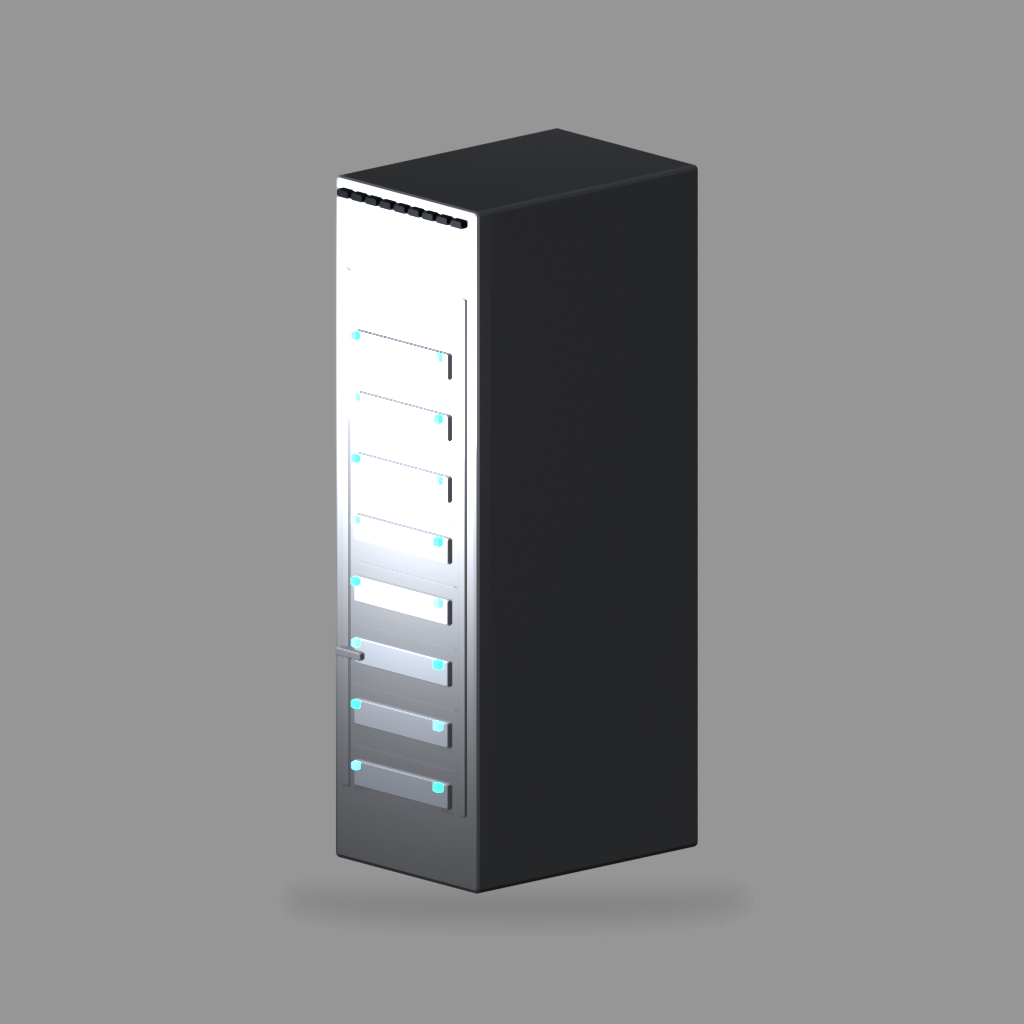
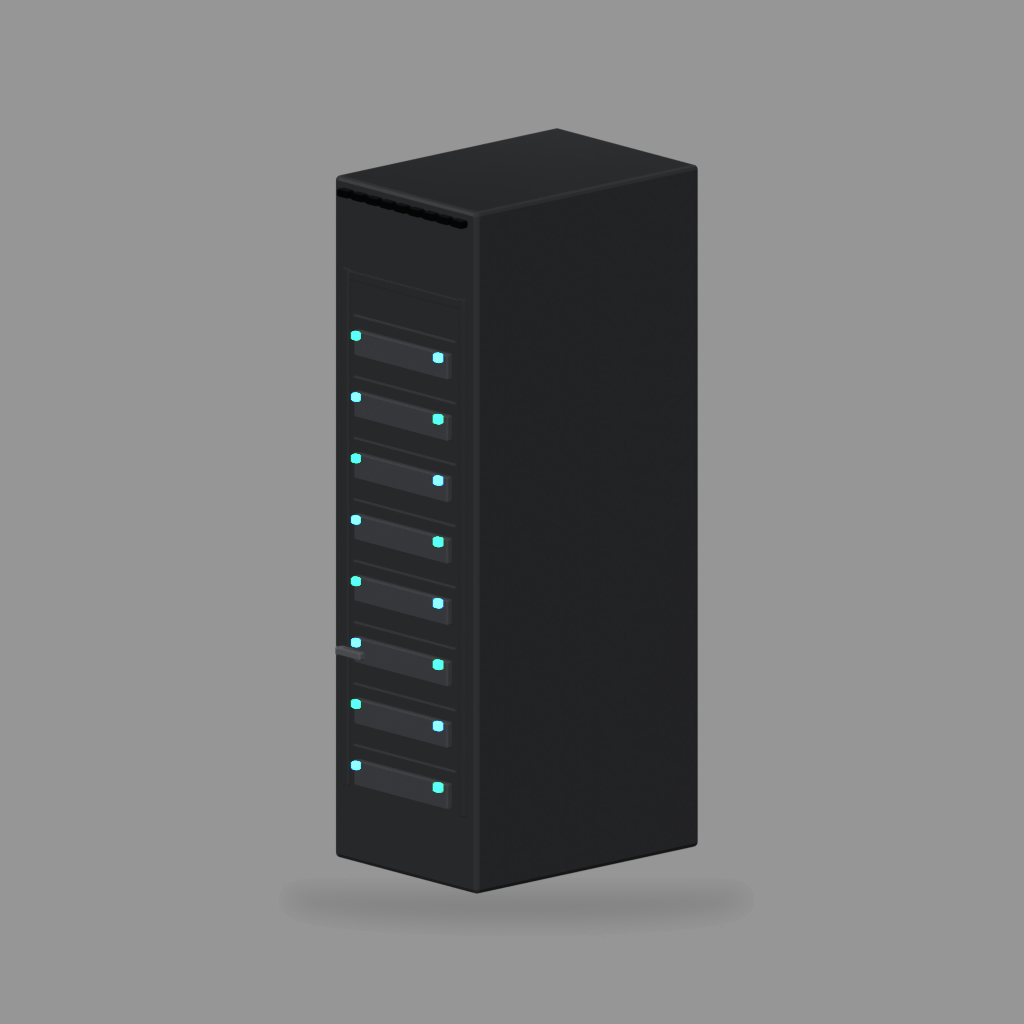
graphics: prop-server-rack v7 — gunmetal front, clip gate (FAIL #6)
Tame fridge wash: remove heavy front fill, gunmetal trim/face-plate albedos,
softer sun/fill, matte metals. LEDs keep cyan emission; exclude LED bloom from
rack_front_clip_frac gate.

Gates: rack_front_clip_frac (<0.5% >230), rack_front_panel_mean_lum (58–82 on
lum≥50 surfaces); 05ca3975 must-FAIL fixture. Pause for Hatch.

Changed region(s): [[0.3125, 0.1562, 0.4688, 0.875]]

diff --git a/tools/art/blender/_common.py b/tools/art/blender/_common.py
@@ -827,18 +827,27 @@ def _render_preview_from_glb(glb_path: Path, asset_id: str) -> Path:
                 if es is not None:
                     es.default_value = 6.5
             elif "glass" in low:
-                bsdf.inputs["Alpha"].default_value = 0.25
+                bsdf.inputs["Base Color"].default_value = (0.14, 0.17, 0.22, 1.0)
+                bsdf.inputs["Alpha"].default_value = 0.22
+                bsdf.inputs["Roughness"].default_value = 0.42
+                bsdf.inputs["Metallic"].default_value = 0.12
                 mat.blend_method = "BLEND"
                 mat.show_transparent_back = False
+            elif "face_plate" in low:
+                bsdf.inputs["Base Color"].default_value = (0.76, 0.78, 0.82, 1.0)
+                bsdf.inputs["Roughness"].default_value = 0.46
+                bsdf.inputs["Metallic"].default_value = 0.30
             elif "frame_trim" in low or "handle" in low or "jamb" in low:
-                bsdf.inputs["Base Color"].default_value = (0.80, 0.82, 0.86, 1.0)
-                bsdf.inputs["Roughness"].default_value = 0.26
+                bsdf.inputs["Base Color"].default_value = (0.66, 0.68, 0.71, 1.0)
+                bsdf.inputs["Roughness"].default_value = 0.50
+                bsdf.inputs["Metallic"].default_value = 0.30
             elif "body_dark" in low or "body" in low:
-                bsdf.inputs["Base Color"].default_value = (84 / 255.0, 86 / 255.0, 90 / 255.0, 1.0)
+                bsdf.inputs["Base Color"].default_value = (86 / 255.0, 88 / 255.0, 92 / 255.0, 1.0)
                 bsdf.inputs["Metallic"].default_value = 0.42
-            elif "bay" in low or "face_plate" in low:
-                bsdf.inputs["Base Color"].default_value = (0.68, 0.71, 0.76, 1.0)
-                bsdf.inputs["Roughness"].default_value = 0.26
+            elif "bay" in low:
+                bsdf.inputs["Base Color"].default_value = (0.58, 0.60, 0.64, 1.0)
+                bsdf.inputs["Roughness"].default_value = 0.40
+                bsdf.inputs["Metallic"].default_value = 0.40
             elif "slot" in low:
                 bsdf.inputs["Base Color"].default_value = (0.02, 0.022, 0.028, 1.0)
                 bsdf.inputs["Roughness"].default_value = 0.65
@@ -861,24 +870,15 @@ def _render_preview_from_glb(glb_path: Path, asset_id: str) -> Path:
     bpy.ops.object.light_add(type="SUN", location=center + Vector((span * 2, -span * 2, span * 3)))
     key = bpy.context.active_object
     rack_lit = asset_id == "prop-server-rack"
-    key.data.energy = 3.05 if rack_lit else (2.86 if presentation_150 else 1.8)
+    key.data.energy = 2.62 if rack_lit else (2.86 if presentation_150 else 1.8)
     key.rotation_euler = (math.radians(52), 0, math.radians(35))
 
     bpy.ops.object.light_add(type="AREA", location=center + Vector((-span, span * 1.2, span * 1.5)))
     fill = bpy.context.active_object
-    fill.data.energy = 72 if rack_lit else (84 if presentation_150 else 55)
+    fill.data.energy = 70 if rack_lit else (84 if presentation_150 else 55)
     fill.data.size = span * (0.9 if presentation_150 else 1.4)
     obj_h = max(maxs.z - mins.z, maxs.y - mins.y, 0.01)
     obj_w = max(maxs.x - mins.x, maxs.y - mins.y, 0.01)
-    if rack_lit:
-        bpy.ops.object.light_add(
-            type="AREA",
-            location=center + Vector((0.0, -obj_w * 1.45, obj_h * 0.28)),
-        )
-        front_fill = bpy.context.active_object
-        front_fill.data.energy = 52
-        front_fill.data.size = obj_w * 1.05
-        front_fill.rotation_euler = (math.radians(82), 0.0, 0.0)
     if asset_id == "prop-server-rack":
         target_fill = 0.70
         pad = 1.02
@@ -1187,9 +1187,9 @@ def _prop_rack_shared_material(kind: str, tex_dir: Path) -> bpy.types.Material:
             links.new(mapping.outputs["Vector"], rt.inputs["Vector"])
             links.new(rt.outputs["Color"], bsdf.inputs["Roughness"])
     elif kind == "frame_trim":
-        bsdf.inputs["Base Color"].default_value = (0.78, 0.80, 0.84, 1.0)
-        bsdf.inputs["Roughness"].default_value = 0.28
-        bsdf.inputs["Metallic"].default_value = 0.72
+        bsdf.inputs["Base Color"].default_value = (0.58, 0.60, 0.63, 1.0)
+        bsdf.inputs["Roughness"].default_value = 0.32
+        bsdf.inputs["Metallic"].default_value = 0.62
     elif kind == "glass":
         bsdf.inputs["Base Color"].default_value = (0.18, 0.22, 0.28, 1.0)
         bsdf.inputs["Roughness"].default_value = 0.18
@@ -1199,9 +1199,9 @@ def _prop_rack_shared_material(kind: str, tex_dir: Path) -> bpy.types.Material:
         bsdf.inputs["Roughness"].default_value = 0.32
         bsdf.inputs["Metallic"].default_value = 0.62
     elif kind == "bay_light":
-        bsdf.inputs["Base Color"].default_value = (0.70, 0.73, 0.78, 1.0)
-        bsdf.inputs["Roughness"].default_value = 0.26
-        bsdf.inputs["Metallic"].default_value = 0.52
+        bsdf.inputs["Base Color"].default_value = (0.64, 0.66, 0.70, 1.0)
+        bsdf.inputs["Roughness"].default_value = 0.30
+        bsdf.inputs["Metallic"].default_value = 0.50
     elif kind == "slot":
         bsdf.inputs["Base Color"].default_value = (0.02, 0.022, 0.028, 1.0)
         bsdf.inputs["Roughness"].default_value = 0.55

diff --git a/tools/art/check_preview_quality.py b/tools/art/check_preview_quality.py
@@ -66,6 +66,11 @@ FIXTURES_MUST_FAIL: tuple[tuple[str, Path, str], ...] = (
         REPO / "tools/art/fixtures/prop-server-rack-7068d293-regression.png",
         "7068d293",
     ),
+    (
+        "prop-server-rack",
+        REPO / "tools/art/fixtures/prop-server-rack-05ca3975-regression.png",
+        "05ca3975",
+    ),
 )
 MIN_RACK_SUBJECT_LUM_STDDEV = 0.038
 MIN_RACK_LED_PIXELS = 48
@@ -77,6 +82,10 @@ MAX_RACK_OBJECT_BROWN_FRAC = 0.22
 MAX_RACK_BODY_RB_DELTA = 8.0
 MIN_RACK_BODY_MEAN_GREY = 38.0
 MAX_RACK_BODY_MEAN_GREY = 70.0
+MAX_RACK_FRONT_CLIP_FRAC = 0.005
+MIN_RACK_FRONT_PANEL_MEAN_LUM = 58.0
+MAX_RACK_FRONT_PANEL_MEAN_LUM = 82.0
+MIN_RACK_PANEL_LUM_SAMPLE = 50
 MIN_SIL_FRAC = 0.35
 MAX_SIL_FRAC = 0.75
 MIN_SUBJECT_BBOX_FRAC = 0.60
@@ -331,6 +340,50 @@ def _rack_body_charcoal_metrics(
     mb = sum(bs) / len(bs)
     grey = (mr + mg + mb) / 3.0
     return abs(mr - mb), grey
+
+
+def _rack_led_pixel(r: int, g: int, b: int) -> bool:
+    if g > r + 14 and g > 72 and b < g - 4:
+        return True
+    if b > r + 10 and b > 72 and g < b - 4:
+        return True
+    if b > 200 and g > 190 and r < 140:
+        return True
+    if g > 200 and b > 160 and r < 110:
+        return True
+    return False
+
+
+def _rack_front_face_metrics(
+    pixels: list[tuple[int, int, int]],
+    width: int,
+    height: int,
+    bg: tuple[int, int, int],
+) -> tuple[float, float]:
+    """Front ROI: clip fraction (max>230, excl LEDs) and mean panel luminance."""
+    x0, x1 = int(width * 0.28), int(width * 0.72)
+    y0, y1 = int(height * 0.16), int(height * 0.84)
+    clip = 0
+    clip_n = 0
+    panel_lums: list[float] = []
+    for y in range(y0, y1):
+        for x in range(x0, x1):
+            r, g, b = pixels[y * width + x]
+            if not _object_pixel(r, g, b, bg):
+                continue
+            if _rack_led_pixel(r, g, b):
+                continue
+            lum = (r * 299 + g * 587 + b * 114) // 1000
+            if lum < 28:
+                continue
+            clip_n += 1
+            if max(r, g, b) > 230:
+                clip += 1
+            if lum >= MIN_RACK_PANEL_LUM_SAMPLE:
+                panel_lums.append(float(lum))
+    clip_frac = (clip / clip_n) if clip_n else 1.0
+    mean_lum = (sum(panel_lums) / len(panel_lums)) if panel_lums else 0.0
+    return clip_frac, mean_lum
 
 
 def _rack_brown_object_frac(
@@ -595,6 +648,9 @@ def stats(path: Path, asset_id: str | None = None) -> dict[str, float]:
         )
         rack_extra["rack_body_rb_delta"] = body_rb
         rack_extra["rack_body_mean_grey"] = body_grey
+        clip_f, panel_lum = _rack_front_face_metrics(pixels, width, height, bg)
+        rack_extra["rack_front_clip_frac"] = clip_f
+        rack_extra["rack_front_panel_mean_lum"] = panel_lum
         is_live = path.resolve() == (PREVIEW_DIR / f"{asset_id}.png").resolve()
         meta_path = PREVIEW_DIR / "prop-server-rack.preview_meta.json"
         if is_live and meta_path.is_file():
@@ -880,6 +936,16 @@ def gate_fail(asset_id: str, s: dict[str, float]) -> list[str]:
         if body_g < MIN_RACK_BODY_MEAN_GREY or body_g > MAX_RACK_BODY_MEAN_GREY:
             reasons.append(
                 f"rack_body_mean_grey={body_g:.1f} (want {MIN_RACK_BODY_MEAN_GREY:.0f}-{MAX_RACK_BODY_MEAN_GREY:.0f})"
+            )
+        clip_f = s.get("rack_front_clip_frac", 1.0)
+        if clip_f > MAX_RACK_FRONT_CLIP_FRAC:
+            reasons.append(
+                f"rack_front_clip_frac={clip_f:.3%} (max {MAX_RACK_FRONT_CLIP_FRAC:.1%})"
+            )
+        p_lum = s.get("rack_front_panel_mean_lum", 0.0)
+        if p_lum < MIN_RACK_FRONT_PANEL_MEAN_LUM or p_lum > MAX_RACK_FRONT_PANEL_MEAN_LUM:
+            reasons.append(
+                f"rack_front_panel_mean_lum={p_lum:.1f} (want {MIN_RACK_FRONT_PANEL_MEAN_LUM:.0f}-{MAX_RACK_FRONT_PANEL_MEAN_LUM:.0f})"
             )
     if asset_id == "prop-desk":
         if s.get("subject_median_sat", 1.0) < 0.08:

diff --git a/tools/art/blender/prop_server_rack.py b/tools/art/blender/prop_server_rack.py
@@ -255,7 +255,7 @@ def build() -> dict:
             "targetSizeM": [TARGET_W, TARGET_D, TARGET_H],
             "kenneyGlbs": list(KENNEY_GLBS_USED),
             "rackUnits": NUM_UNITS,
-            "pipelineNote": "procedural-cabinet-v6-readability-backdrop",
+            "pipelineNote": "procedural-cabinet-v7-gunmetal-front",
         },
     )
 
